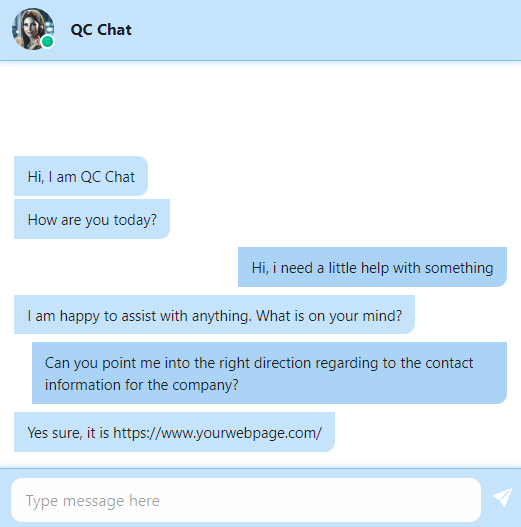
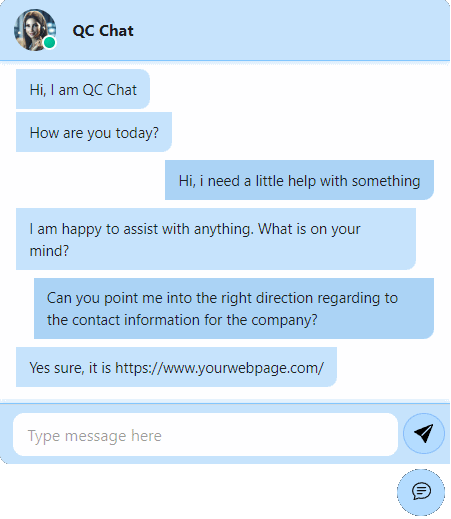
Minor preview update

diff --git a/src/components/QuickChatComponent.css b/src/components/QuickChatComponent.css
@@ -37,6 +37,10 @@
     border-top-right-radius: 10px;
 }
 
+.qc-chat-container, .qc-chat-inputs {
+    border-bottom-left-radius: 10px;
+}
+
 .qc-chat-inputs {
     margin-top: 1em;
     color: #3B3B3B;
